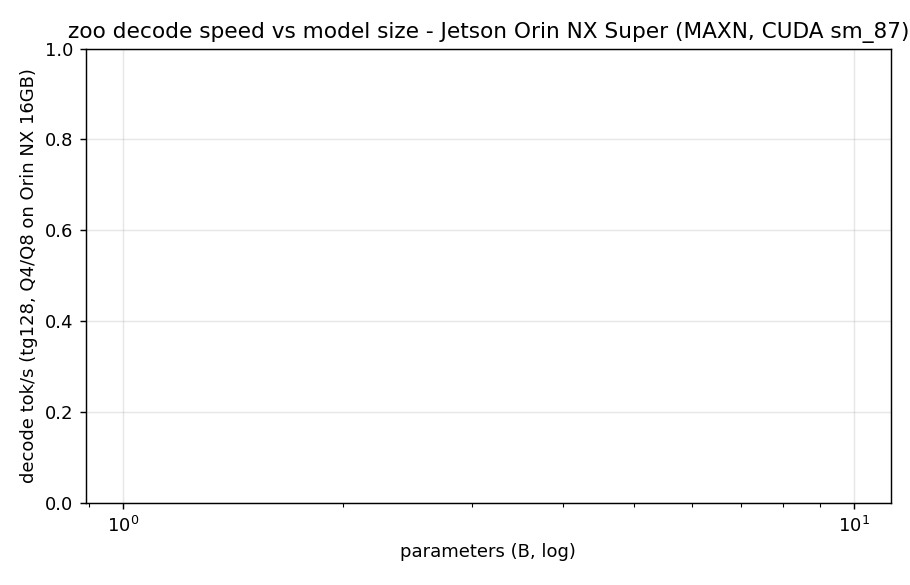
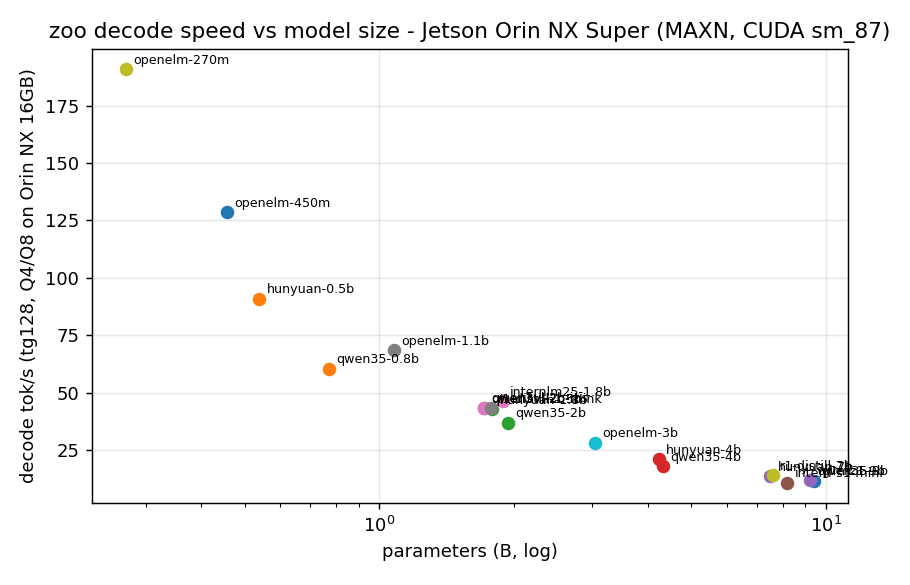
final: perf table derivation fixed (n_prompt/n_gen), dedupe, full refresh

diff --git a/scripts/collect_results.py b/scripts/collect_results.py
@@ -29,13 +29,19 @@ def bench_rows(path):
     rows, size, params = [], None, None
     for r in d if isinstance(d, list) else []:
         size = size or r.get("model_size")
-        params = params or r.get("model_params")
-        rows.append({"test": r.get("test"), "avg_ts": r.get("avg_ts")})
+        params = params or r.get("model_n_params")
+        # this llama-bench -o json has no "test" label: derive it from n_prompt/n_gen
+        np_, ng_ = r.get("n_prompt"), r.get("n_gen")
+        test = r.get("test")
+        if not isinstance(test, str):
+            test = (f"tg{ng_}" if (ng_ or 0) > 0 else (f"pp{np_}" if np_ else None)) if np_ is not None else None
+        rows.append({"test": test, "avg_ts": r.get("avg_ts")})
     return {"size": size, "params": params}, rows
 
 
 def main():
     perf, qual = [], []
+    perf_map = {}   # keep the latest bench run per model
     for bp in sorted(glob.glob(str(RAW / "bench_*.json"))):
         name = os.path.basename(bp)[len("bench_"):].rsplit("_", 1)[0]
         name = name[:-5] if name.endswith(".json") else name   # timestamp-less smoke files
@@ -46,9 +52,15 @@ def main():
             continue
         row = {"model": name, "size_gb": meta["size"], "params": meta["params"]}
         for r in rows:
-            if isinstance(r.get("test"), str):
-                row[r["test"]] = round(r["avg_ts"], 1) if r.get("avg_ts") else None
-        perf.append(row)
+            # this llama-bench -o json has no "test" label: derive it from n_prompt/n_gen
+            test = r.get("test")
+            if not isinstance(test, str):
+                np_, ng_ = r.get("n_prompt"), r.get("n_gen")
+                test = (f"tg{np_}" if (ng_ or 0) > 0 else f"pp{np_}") if np_ else None
+            if isinstance(test, str):
+                row[test] = round(r["avg_ts"], 1) if r.get("avg_ts") else None
+        perf_map[name] = row
+    perf = list(perf_map.values())
     qmap = {}   # same model measured twice (e.g. hunyuan before/after a parser fix): keep the LATEST run
     for qp in sorted(glob.glob(str(RAW / "quality_*.json"))):
         name = os.path.basename(qp)[len("quality_"):].rsplit("_", 1)[0]

diff --git a/README.md b/README.md
@@ -52,29 +52,25 @@
 
 | 模型 | 参数(B) | GSM8K-100 | ARC-100 | decode t/s (tg128) |
 |---|---|---|---|---|
-| hunyuan-0.5b | — | 0.00 (100) | 0.32 (100) | — |
-| hunyuan-0.5b | — | 0.30 (100) | 0.32 (100) | — |
-| hunyuan-1.8b | — | 0.00 (100) | 0.60 (100) | — |
-| hunyuan-1.8b | — | 0.55 (100) | 0.60 (100) | — |
-| hunyuan-4b | — | 0.01 (100) | 0.77 (100) | — |
-| hunyuan-4b | — | 0.80 (100) | 0.77 (100) | — |
-| hunyuan-7b | — | 0.05 (100) | 0.80 (100) | — |
-| hunyuan-7b | — | 0.79 (100) | 0.80 (100) | — |
-| glm-z1-9b | — | 0.71 (100) | 0.86 (100) | — |
-| intern-s1-mini | — | 0.22 (100) | 0.00 (100) | — |
-| internlm25-1.8b | — | 0.41 (100) | 0.61 (100) | — |
-| openelm-1.1b | — | 0.00 (100) | 0.14 (100) | — |
-| openelm-270m | — | 0.01 (100) | 0.26 (100) | — |
-| openelm-3b | — | 0.02 (100) | 0.25 (100) | — |
-| openelm-450m | — | 0.00 (100) | 0.23 (100) | — |
-| qwen35-0.8b | — | 0.06 (100) | 0.56 (100) | — |
-| qwen35-2b | — | 0.06 (100) | 0.63 (100) | — |
-| qwen35-4b | — | 0.12 (100) | 0.79 (100) | — |
-| qwen35-9b | — | 0.15 (100) | 0.00 (100) | — |
-| qwen3vl-2b-ins | — | 0.75 (100) | 0.71 (100) | — |
-| qwen3vl-2b-think | — | 0.44 (100) | 0.55 (100) | — |
-| r1-distill-1.5b | — | 0.53 (100) | 0.54 (100) | — |
-| r1-distill-7b | — | 0.64 (100) | 0.13 (100) | — |
+| hunyuan-0.5b | 0.5 | 0.30 (100) | 0.32 (100) | 90.9 |
+| hunyuan-1.8b | 1.8 | 0.55 (100) | 0.60 (100) | 42.8 |
+| hunyuan-4b | 4.2 | 0.80 (100) | 0.77 (100) | 21.1 |
+| hunyuan-7b | 7.5 | 0.79 (100) | 0.80 (100) | 13.7 |
+| glm-z1-9b | 9.4 | 0.71 (100) | 0.86 (100) | 11.9 |
+| intern-s1-mini | 8.2 | 0.22 (100) | 0.00 (100) | 11.0 |
+| internlm25-1.8b | 1.9 | 0.41 (100) | 0.61 (100) | 46.5 |
+| openelm-1.1b | 1.1 | 0.00 (100) | 0.14 (100) | 68.7 |
+| openelm-270m | 0.3 | 0.01 (100) | 0.26 (100) | 190.8 |
+| openelm-3b | 3.0 | 0.02 (100) | 0.25 (100) | 28.3 |
+| openelm-450m | 0.5 | 0.00 (100) | 0.23 (100) | 128.5 |
+| qwen35-0.8b | 0.8 | 0.06 (100) | 0.56 (100) | 60.5 |
+| qwen35-2b | 1.9 | 0.06 (100) | 0.63 (100) | 37.1 |
+| qwen35-4b | 4.3 | 0.12 (100) | 0.79 (100) | 18.1 |
+| qwen35-9b | 9.2 | 0.15 (100) | 0.00 (100) | 12.1 |
+| qwen3vl-2b-ins | 1.7 | 0.75 (100) | 0.71 (100) | 43.5 |
+| qwen3vl-2b-think | 1.7 | 0.44 (100) | 0.55 (100) | 43.3 |
+| r1-distill-1.5b | 1.8 | 0.53 (100) | 0.54 (100) | 43.4 |
+| r1-distill-7b | 7.6 | 0.64 (100) | 0.13 (100) | 14.2 |
 | **strata Q2_0 (125B MoE, 2-bit 专家)** | ~125 | **0.96 (25)** | 0.50 (50) | **6.3** |
 
 ## 复现
